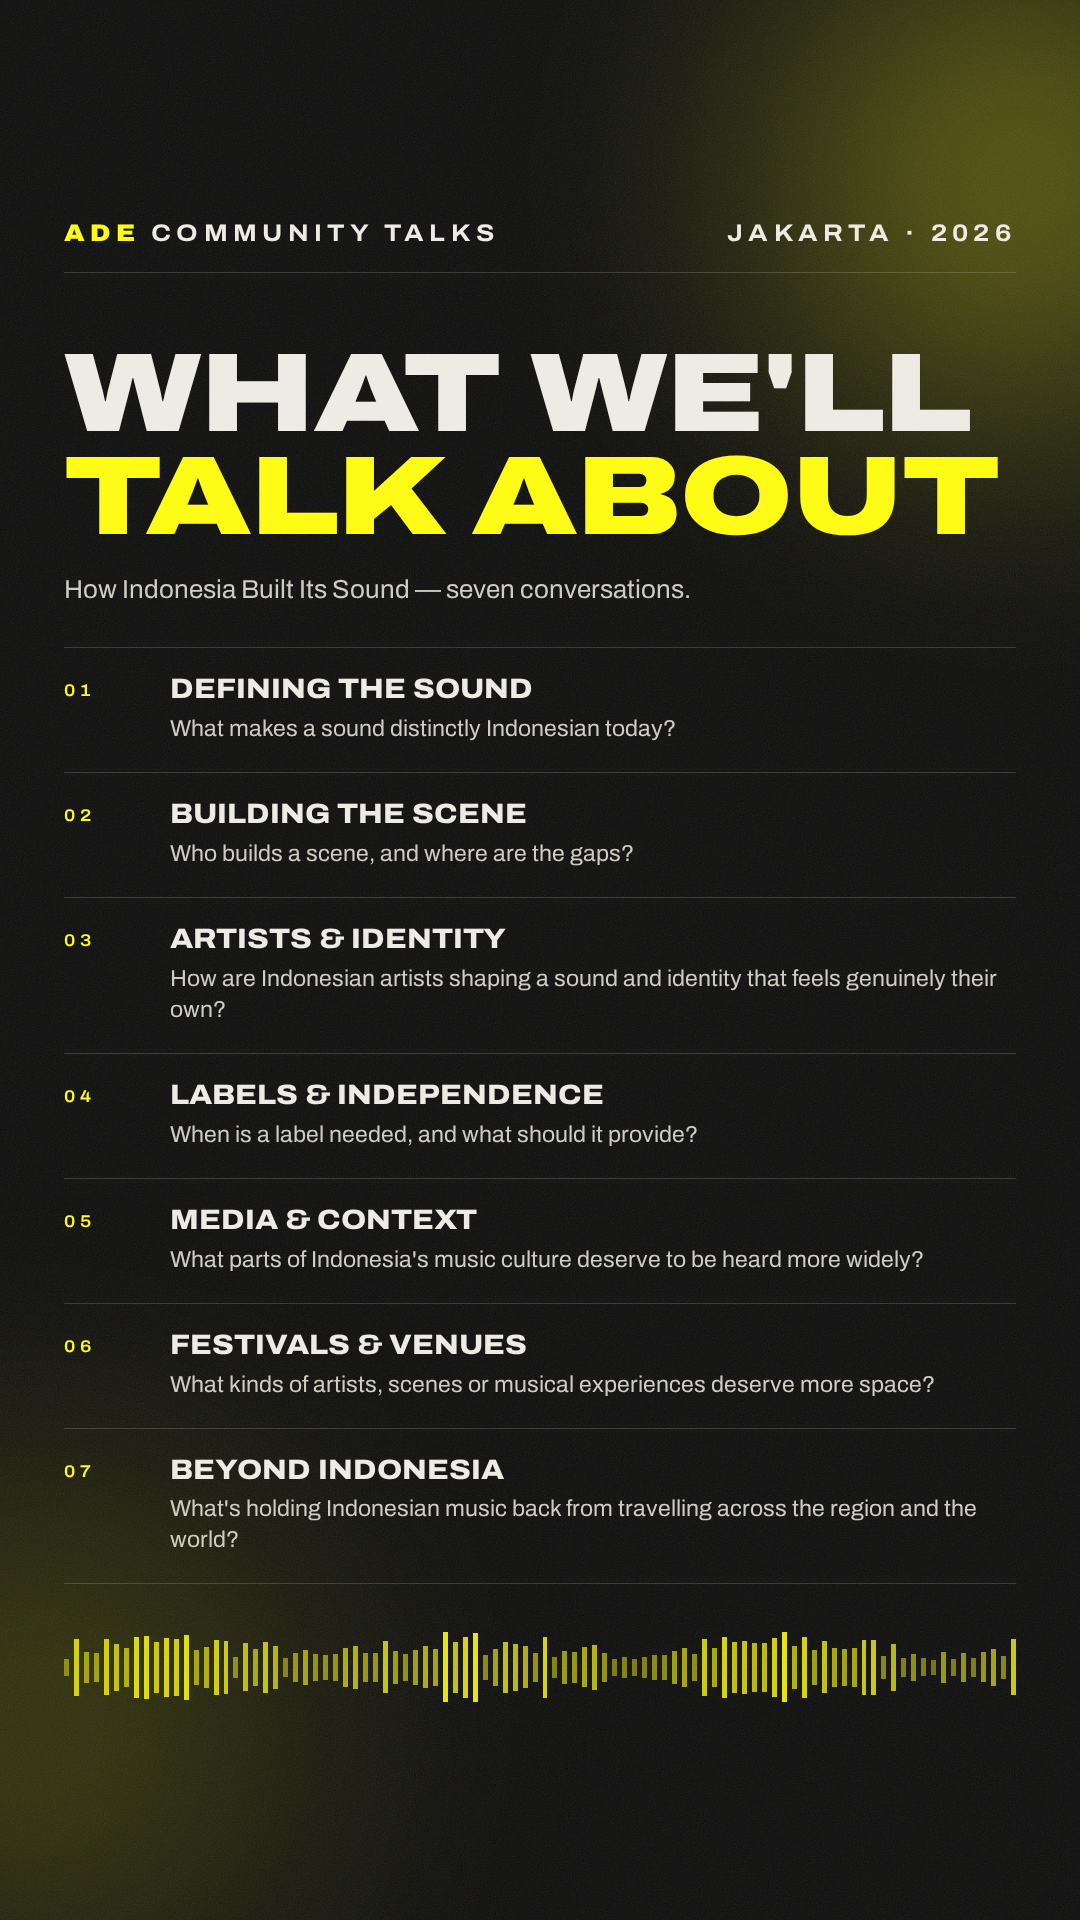
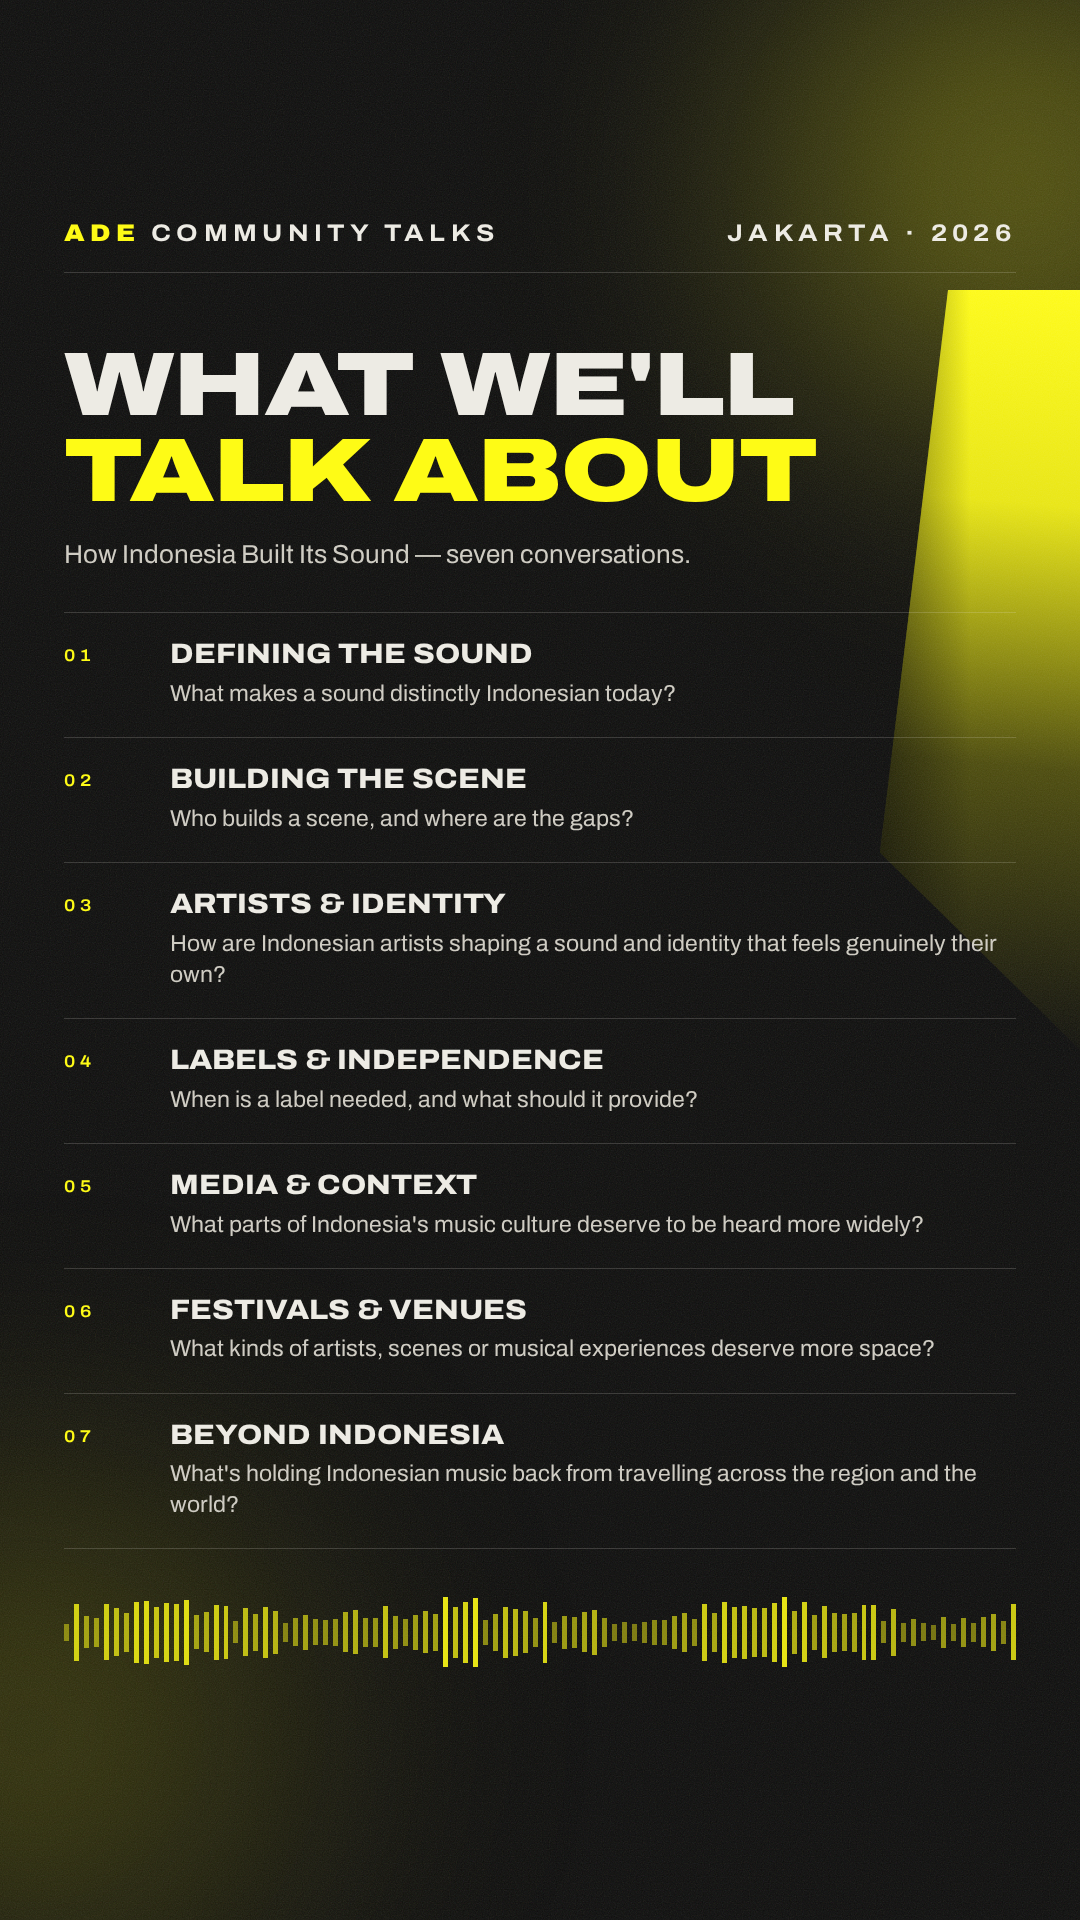
ADE flyer: bring back the yellow light beam, top right
Claude-Session: https://claude.ai/code/session_01Sc5gF2HRFqjLpMQDrx7aqZ

diff --git a/events/ade-community-talks-2026/00-invite.html b/events/ade-community-talks-2026/00-invite.html
@@ -3,12 +3,12 @@
 .blank { margin-top: 40px; height: 200px; border-bottom: 1.5px solid rgba(237,235,228,.55); display: flex; align-items: flex-end; justify-content: flex-end; padding-bottom: 14px; }
 </style></head>
 <body>
-<div class="glow g1"></div><div class="glow g2"></div><div class="grain"></div>
+<div class="glow g1"></div><div class="beam"></div><div class="glow g2"></div><div class="grain"></div>
 <div class="page">
   <div class="row"><div class="label head"><b>ADE</b> Community Talks</div><div class="label head">Jakarta · 2026</div></div>
   <div class="hr" style="margin-top:26px"></div>
 
-  <div class="display" style="font-size:196px;line-height:.88;margin-top:90px">We<br>invite</div>
+  <div class="display" style="font-size:180px;line-height:.9;margin-top:90px">We<br>invite</div>
   <div class="blank"><span class="label">your name</span></div>
 
   <div class="lead" style="margin-top:48px">to an afternoon of talks, music and good company on</div>

diff --git a/events/ade-community-talks-2026/02-topics.html b/events/ade-community-talks-2026/02-topics.html
@@ -6,12 +6,12 @@
 .topic .q { font-size: 23px; line-height: 1.35; color: var(--soft); margin-top: 8px; }
 </style></head>
 <body>
-<div class="glow g1"></div><div class="glow g2"></div><div class="grain"></div>
+<div class="glow g1"></div><div class="beam"></div><div class="glow g2"></div><div class="grain"></div>
 <div class="page">
   <div class="row"><div class="label head"><b>ADE</b> Community Talks</div><div class="label head">Jakarta · 2026</div></div>
   <div class="hr" style="margin-top:26px"></div>
 
-  <div class="display" style="font-size:112px;line-height:.92;margin-top:70px">What we'll<br><em>talk about</em></div>
+  <div class="display" style="font-size:90px;line-height:.95;margin-top:70px">What we'll<br><em>talk about</em></div>
   <div class="lead" style="margin-top:22px">How Indonesia Built Its Sound — seven conversations.</div>
 
   <div style="margin-top:40px;border-top:1px solid var(--line)">

diff --git a/events/ade-community-talks-2026/01-lineup.html b/events/ade-community-talks-2026/01-lineup.html
@@ -7,12 +7,12 @@
 .card .org { margin-top: 8px; font-size: 13px; letter-spacing: .22em; }
 </style></head>
 <body>
-<div class="glow g1"></div><div class="glow g2"></div><div class="grain"></div>
+<div class="glow g1"></div><div class="beam"></div><div class="glow g2"></div><div class="grain"></div>
 <div class="page">
   <div class="row"><div class="label head">Amsterdam Dance Event</div><div class="label head">Jakarta · 2026</div></div>
   <div class="hr" style="margin-top:26px"></div>
 
-  <div class="display" style="font-size:112px;line-height:.9;margin-top:60px"><em>ADE</em><br>Community<br>Talks 2026</div>
+  <div class="display" style="font-size:100px;line-height:.92;margin-top:64px"><em>ADE</em><br>Community<br>Talks 2026</div>
   <div class="display" style="font-size:40px;font-weight:700;color:var(--soft);margin-top:24px">How Indonesia Built Its Sound</div>
 
 

diff --git a/events/ade-community-talks-2026/modern.css b/events/ade-community-talks-2026/modern.css
@@ -39,3 +39,10 @@ body { position: relative; font-family: 'Archivo', sans-serif; }
 .who { line-height: 2.1; }
 .who span { color: #55534d; padding: 0 10px; }
 .who i { font-style: normal; white-space: nowrap; color: var(--fg); }
+
+/* yellow light beam, top right (from the original poster) */
+.beam { position: absolute; right: 0; top: 290px; width: 200px; height: 760px;
+  background: linear-gradient(185deg, var(--y) 0%, #e8e512 28%, rgba(150,148,10,.45) 62%, rgba(12,12,11,0) 100%);
+  clip-path: polygon(34% 0, 100% 0, 100% 100%, 0 74%); }
+.beam::after { content: ''; position: absolute; inset: 0; background: linear-gradient(90deg, rgba(0,0,0,.5), rgba(0,0,0,0) 45%); }
+.page { z-index: 1; }
